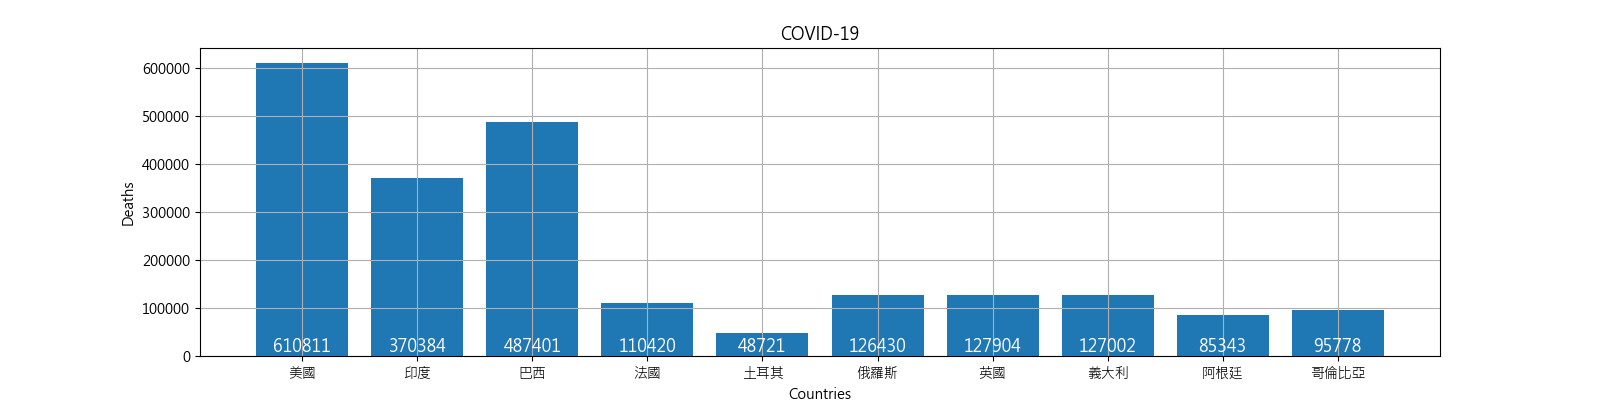
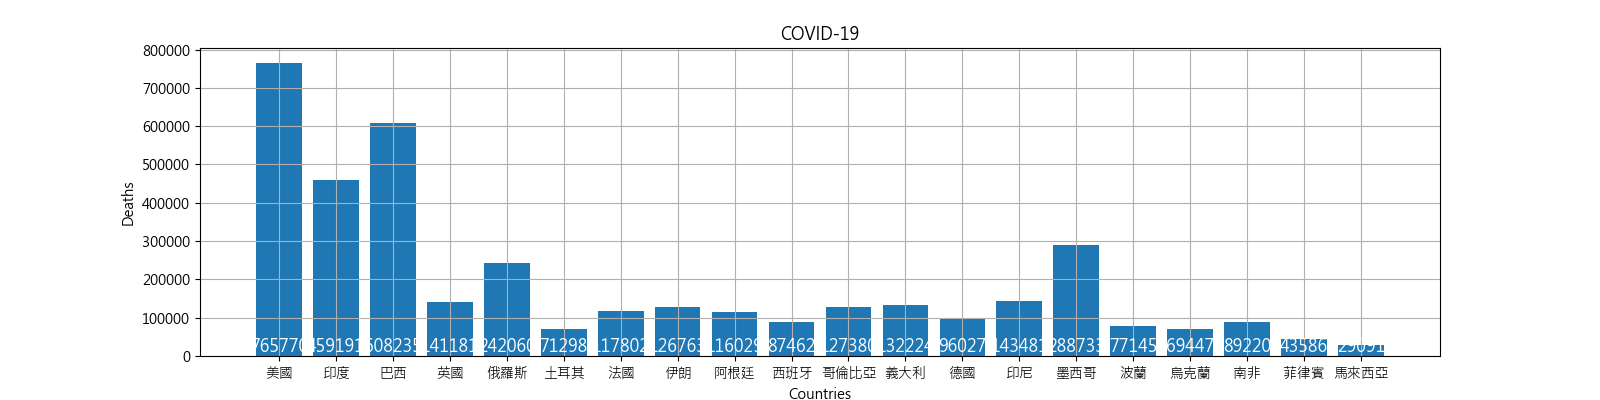
Review

diff --git a/dashboard/views.py b/dashboard/views.py
@@ -22,14 +22,14 @@ matplotlib.use('Agg')
 
 
 def index(request):
-    covid19_items = covid19.objects.all().order_by('-cases')[:10]
+    covid19_items = covid19.objects.all().order_by('-cases')[:20]
     n = len(covid19_items)
     context = {'covid19_items': covid19_items, 'n': n}
     return render(request, 'index.html', locals())
 
 
 def show_bar(request):
-    covid19_items = covid19.objects.all().order_by('-cases')[:10]
+    covid19_items = covid19.objects.all().order_by('-cases')[:20]
     covid19_countries = []
     for covid19_item in covid19_items:
         covid19_countries.append(str(covid19_item.country_ch))
@@ -53,6 +53,8 @@ def show_bar(request):
     plt.savefig('static/images/barchart1.png',
                 pad_inches=0.0)  # ,bbox_inches='tight'
     plt.close('all')
+
+
 
     covid19_deaths = []
     for covid19_item in covid19_items:
